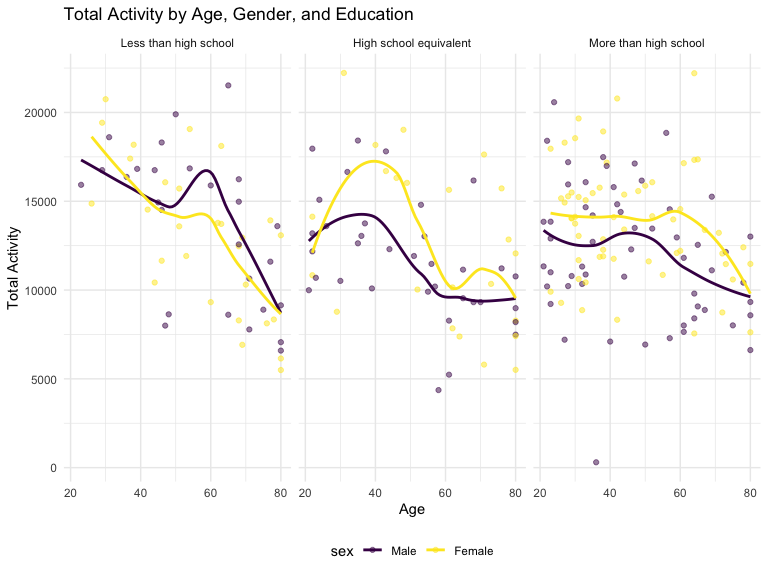
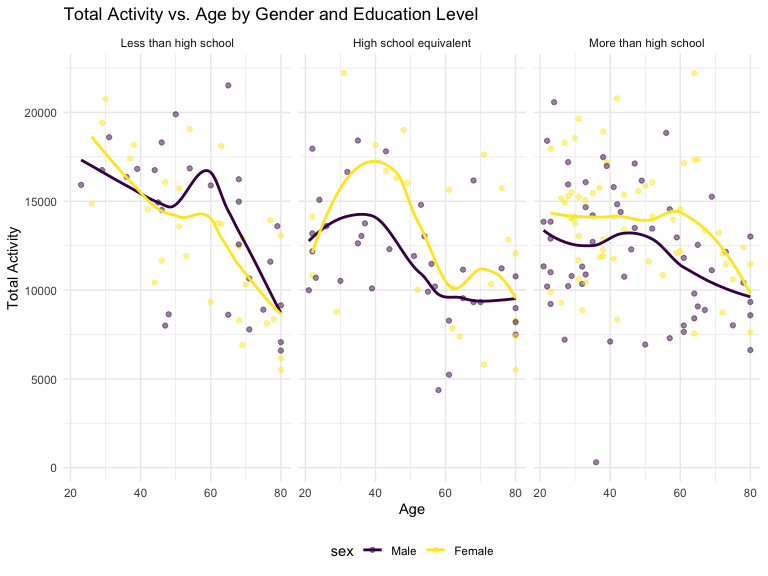
q2

Changed region(s): [[0.2188, 0.0, 0.625, 0.0625]]

diff --git a/p8105_hw3_dw3093.md b/p8105_hw3_dw3093.md
@@ -197,7 +197,7 @@ more than high school category, males and females have similar age
 distributions, both with a median age of around 60 years, though females
 exhibit a slightly broader range.
 
-# Total Activity by Participant
+# Plot total activities vs. age
 
 ``` r
 merged_df |> 
@@ -210,7 +210,7 @@ merged_df |>
   geom_smooth(method = "loess", se = FALSE) + 
   facet_wrap(~education) + 
   labs(
-    title = "Total Activity by Age, Gender, and Education", 
+    title = "Total Activity vs. Age by Gender and Education Level", 
     x = "Age", 
     y = "Total Activity"
   ) +
@@ -224,17 +224,23 @@ merged_df |>
 
 <img src="p8105_hw3_dw3093_files/figure-gfm/unnamed-chunk-11-1.png" width="90%" />
 
-The plot shows that total activity for females tends to be higher at
-younger ages, particularly in the “high school equivalent” and “more
-than high school” categories, but their activity levels decline more
-steeply as they age, especially after age 60. In contrast, males show a
-more gradual decline in activity over time compared to females. In the
-“less than high school” group, the gap between male and female activity
-levels is smaller, and both sexes experience a sharp decline in total
-activity as they approach older age. In the “high school equivalent” and
-“more than high school” groups, females have notably higher activity in
-their 20s and 30s but diminish by age 60, where male and female activity
-levels converge and decline together.
+- In the “less than high school” group, females initially have higher
+  activity levels, but their activity sharply declines after age 60,
+  eventually falling below that of males, who show a more gradual
+  decline with age.
+- In the “high school equivalent” group, females are more active than
+  males at younger ages, but their activity decreases more steeply after
+  age 50, converging with male levels by age 60. Males exhibit a
+  steadier decline across age in this group.
+- In the “high school equivalent” and “more than high school” groups,
+  females have notably higher activity in their 20s and 30s but diminish
+  by age 60, where male and female activity levels converge and decline
+  together.
+- Overall, females tend to be more active in their younger years, while
+  males experience more gradual decreases in activity, often maintaining
+  higher levels in older age, particularly in the lower education
+  groups, which indicates that both gender and education influence
+  activity trends as people age.
 
 \#create a three-panel plot that shows the 24-hour activity time courses
 for each education level
@@ -266,17 +272,20 @@ ggplot(hourly_act, aes(x = hour, y = activity_level, color = sex)) +
 
 <img src="p8105_hw3_dw3093_files/figure-gfm/unnamed-chunk-12-1.png" width="90%" />
 The graph shows 24-hour activity patterns for men and women across
-different education levels. Across all groups, there is a sharp increase
-in activity in the morning (around 6-9), peaking between 9 AM and 12 PM,
-followed by a gradual decline in the afternoon and a smaller peak in the
-early evening (around 15-18). Activity levels significantly drop off
-after 21 and remain low during nighttime hours. Females consistently
-show higher average activity levels compared to males throughout the
-day, especially during the peak activity periods. While the overall
-patterns are similar across education levels, individuals with less than
-a high school education tend to have slightly lower activity levels, and
-those with higher education exhibit more sustained and pronounced
-morning peaks. In conclusion: the trends suggest that both gender and
-education influence daily activity patterns, with females generally
-being more active and higher education associated with slightly higher
-and longer-lasting activity peaks during the day.
+different education levels. Across both male and female groups, there is
+a sharp increase in activity in the morning (around 6-9), peaking
+between 9 and 12 am, followed by a gradual decline in the afternoon and
+a smaller peak in the afternoon (around 15-18). Activity levels
+significantly drop off after 21 and remain low during nighttime hours.
+Females consistently show higher average activity levels compared to
+males throughout the day, especially during the peak activity periods.
+While the overall patterns are similar across education levels,
+individuals with less than a high school education tend to have slightly
+lower activity levels, and those with higher education exhibit more
+sustained and pronounced morning peaks. In conclusion: the trends
+suggest that both gender and education influence daily activity
+patterns, with females generally being more active and higher education
+associated with slightly higher and longer-lasting activity peaks during
+the day.
+
+## Question 3
